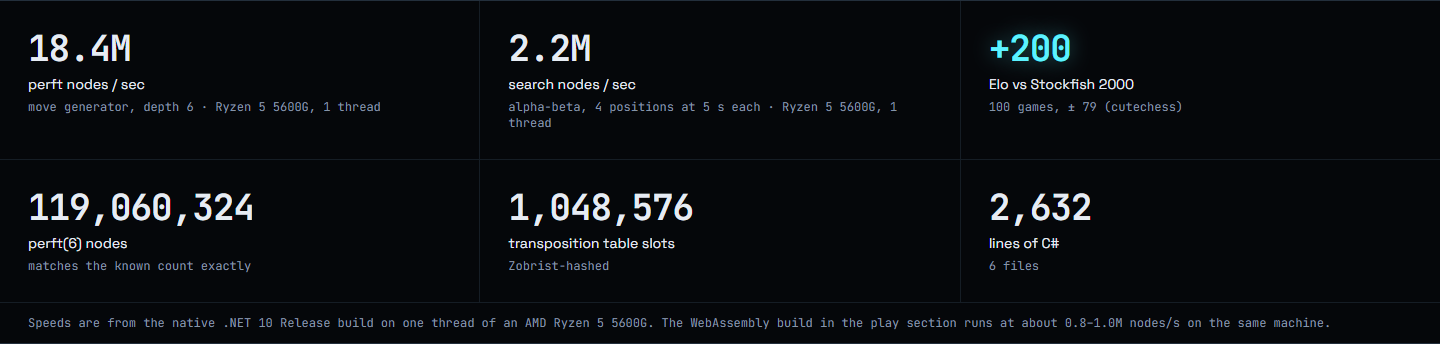
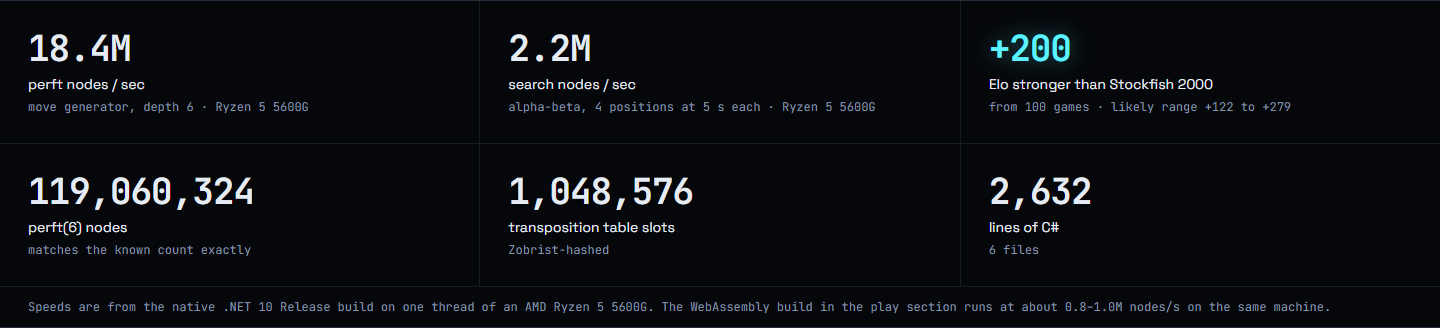
Queen bitboard demo with 64-bit readouts, fool's mate hero, clearer Elo stat
- Bitboard demo is now a queen on d4: rook and bishop magic lookups with the
  engine's own variable names, each value shown as 64 bits with flipped bits marked
- Hero board shows the fool's mate position; black pieces are lighter so they stand out
- Elo stat explains itself (about 200 above Stockfish 2000, range +122 to +279)
- Speed stats name the CPU without "1 thread" (the note below still says it)

diff --git a/site/src/viz.ts b/site/src/viz.ts
@@ -144,26 +144,32 @@ export function setupAlphaBeta(host: HTMLElement, caption: HTMLElement) {
 
 // ---------------------------------------------------------------- magic bitboards
 
+// A queen on d4 is a rook lookup plus a bishop lookup, the same as Chess.queenMoves in the engine.
 const M64 = (1n << 64n) - 1n;
-const ROOK_SQ = 27; // d4
-const ROOK_MAGIC = 0x20c100180080280n; // Board.rookMagics[27] in the engine
+const SQ = 27; // d4
+const ROOK_MAGIC = 0x20c100180080280n; // Board.rookMagics[27]
 const ROOK_BITS = 10; // Board.rookBlockerBitCounts[27]
-const DIRS = [[1, 0], [-1, 0], [0, 1], [0, -1]];
+const BISHOP_MAGIC = 0x808008020002n; // Board.bishopMagics[27]
+const BISHOP_BITS = 9; // Board.bishopBlockerBitCounts[27]
+const ROOK_DIRS = [[1, 0], [-1, 0], [0, 1], [0, -1]];
+const BISHOP_DIRS = [[1, 1], [1, -1], [-1, 1], [-1, -1]];
 
-function rookMask(sq: number): bigint {
+// Squares a slider could be blocked on, leaving out the board edge.
+function blockerMask(sq: number, dirs: number[][]): bigint {
   let m = 0n;
   const f0 = sq % 8, r0 = Math.floor(sq / 8);
-  for (const [df, dr] of DIRS) {
+  for (const [df, dr] of dirs) {
     let f = f0 + df, r = r0 + dr;
     while (f + df >= 0 && f + df <= 7 && r + dr >= 0 && r + dr <= 7) { m |= 1n << BigInt(r * 8 + f); f += df; r += dr; }
   }
   return m;
 }
 
-function rookAttacks(sq: number, occ: bigint): bigint {
+// What the engine's precomputed table holds for this blocker set.
+function slide(sq: number, occ: bigint, dirs: number[][]): bigint {
   let a = 0n;
   const f0 = sq % 8, r0 = Math.floor(sq / 8);
-  for (const [df, dr] of DIRS) {
+  for (const [df, dr] of dirs) {
     let f = f0 + df, r = r0 + dr;
     while (f >= 0 && f <= 7 && r >= 0 && r <= 7) {
       const b = 1n << BigInt(r * 8 + f);
@@ -175,11 +181,24 @@ function rookAttacks(sq: number, occ: bigint): bigint {
   return a;
 }
 
-const hex = (b: bigint) => '0x' + b.toString(16).toUpperCase().padStart(16, '0');
+// 64 bits, bit 63 (h8) first, split into ranks. Bits that changed on the last click are marked.
+function bits(v: bigint, prev: bigint | undefined): string {
+  let s = '';
+  for (let i = 63; i >= 0; i--) {
+    const on = (v >> BigInt(i)) & 1n;
+    const flipped = prev !== undefined && ((prev >> BigInt(i)) & 1n) !== on;
+    s += `<i class="${on ? 'b1' : 'b0'}${flipped ? ' flip' : ''}">${on}</i>`;
+    if (i % 8 === 0 && i > 0) s += ' ';
+  }
+  return s;
+}
 
 export function setupBitboard(host: HTMLElement, out: HTMLElement) {
-  const mask = rookMask(ROOK_SQ);
-  let occ = (1n << 51n) | (1n << 25n) | (1n << 13n) | (1n << 30n); // d7, b4, f2, g4
+  const rookMask = blockerMask(SQ, ROOK_DIRS);
+  const bishopMask = blockerMask(SQ, BISHOP_DIRS);
+  // d7, b4, g4, f2, f6, b2
+  let allPieces = (1n << 51n) | (1n << 25n) | (1n << 30n) | (1n << 13n) | (1n << 45n) | (1n << 9n);
+  let prev: Record<string, bigint> = {};
   const grid = document.createElement('div');
   grid.className = 'bb-grid';
   const cells: HTMLButtonElement[] = [];
@@ -190,8 +209,8 @@ export function setupBitboard(host: HTMLElement, out: HTMLElement) {
     b.dataset.idx = String(idx);
     b.setAttribute('aria-label', 'abcdefgh'[idx % 8] + (Math.floor(idx / 8) + 1));
     b.onclick = () => {
-      if (idx === ROOK_SQ) return;
-      occ ^= 1n << BigInt(idx);
+      if (idx === SQ) return;
+      allPieces ^= 1n << BigInt(idx);
       draw();
     };
     cells.push(b);
@@ -200,24 +219,41 @@ export function setupBitboard(host: HTMLElement, out: HTMLElement) {
   host.append(grid);
 
   function draw() {
-    const attacks = rookAttacks(ROOK_SQ, occ);
-    const relevant = occ & mask;
-    const index = Number((((relevant * ROOK_MAGIC) & M64) >> BigInt(64 - ROOK_BITS)));
+    const rBlockers = allPieces & rookMask;
+    const rMagicIndex = Number(((rBlockers * ROOK_MAGIC) & M64) >> BigInt(64 - ROOK_BITS));
+    const rookAttacks = slide(SQ, allPieces, ROOK_DIRS);
+    const bBlockers = allPieces & bishopMask;
+    const bMagicIndex = Number(((bBlockers * BISHOP_MAGIC) & M64) >> BigInt(64 - BISHOP_BITS));
+    const bishopAttacks = slide(SQ, allPieces, BISHOP_DIRS);
+    const attacks = rookAttacks | bishopAttacks;
+
     for (const b of cells) {
       const idx = Number(b.dataset.idx);
       const bit = 1n << BigInt(idx);
       b.className = 'bb-cell';
-      if (idx === ROOK_SQ) { b.classList.add('bb-rook'); b.textContent = 'R'; continue; }
-      b.textContent = occ & bit ? '●' : attacks & bit ? '1' : '0';
+      if (idx === SQ) { b.classList.add('bb-rook'); b.textContent = 'Q'; continue; }
+      b.textContent = allPieces & bit ? '●' : attacks & bit ? '1' : '0';
       if (attacks & bit) b.classList.add('bb-att');
-      if (occ & bit) b.classList.add('bb-occ');
-      if (mask & bit) b.classList.add('bb-mask');
+      if (allPieces & bit) b.classList.add('bb-occ');
+      if ((rookMask | bishopMask) & bit) b.classList.add('bb-mask');
     }
+
+    const now: Record<string, bigint> = { allPieces, rBlockers, rookAttacks, bBlockers, bishopAttacks, attacks };
+    const row = (name: string, expr: string, cls = '') =>
+      `<div class="bb-row ${cls}"><span><b>${name}</b> ${expr}</span><code>${bits(now[name], prev[name])}</code></div>`;
+    const num = (name: string, expr: string, v: number) =>
+      `<div class="bb-row"><span><b>${name}</b> ${expr}</span><code class="bb-num">${v}</code></div>`;
     out.innerHTML =
-      `<div><span>blockers &amp; mask</span><code>${hex(relevant)}</code></div>` +
-      `<div><span>× magic</span><code>${hex(ROOK_MAGIC)}</code></div>` +
-      `<div><span>&gt;&gt; ${64 - ROOK_BITS} → table index</span><code>${index}</code></div>` +
-      `<div class="bb-res"><span>attacks (one lookup)</span><code>${hex(attacks)}</code></div>`;
+      `<p class="bb-legend">bit 63 (h8) on the left, bit 0 (a1) on the right, one group per rank. Bits that changed on your last click are highlighted.</p>` +
+      row('allPieces', '= every occupied square') +
+      row('rBlockers', '= allPieces &amp; rookBlockersMasks[d4]') +
+      num('rMagicIndex', `= (rBlockers × rookMagics[d4]) &gt;&gt; ${64 - ROOK_BITS}`, rMagicIndex) +
+      row('rookAttacks', '= rookAttackTable[d4][rMagicIndex]') +
+      row('bBlockers', '= allPieces &amp; bishopBlockersMasks[d4]') +
+      num('bMagicIndex', `= (bBlockers × bishopMagics[d4]) &gt;&gt; ${64 - BISHOP_BITS}`, bMagicIndex) +
+      row('bishopAttacks', '= bishopAttackTable[d4][bMagicIndex]') +
+      row('attacks', '= rookAttacks | bishopAttacks', 'bb-res');
+    prev = now;
   }
   draw();
 }

diff --git a/site/index.html b/site/index.html
@@ -38,9 +38,9 @@
     </section>
 
     <section class="stats" aria-label="Engine numbers">
-      <div class="stat reveal"><b data-count="18.4" data-decimals="1" data-suffix="M">0</b><span>perft nodes / sec</span><small>move generator, depth 6 · Ryzen 5 5600G, 1 thread</small></div>
-      <div class="stat reveal"><b data-count="2.2" data-decimals="1" data-suffix="M">0</b><span>search nodes / sec</span><small>alpha-beta, 4 positions at 5 s each · Ryzen 5 5600G, 1 thread</small></div>
-      <div class="stat stat-live reveal"><b data-count="200" data-prefix="+">0</b><span>Elo vs Stockfish 2000</span><small>100 games, ± 79 (cutechess)</small></div>
+      <div class="stat reveal"><b data-count="18.4" data-decimals="1" data-suffix="M">0</b><span>perft nodes / sec</span><small>move generator, depth 6 · Ryzen 5 5600G</small></div>
+      <div class="stat reveal"><b data-count="2.2" data-decimals="1" data-suffix="M">0</b><span>search nodes / sec</span><small>alpha-beta, 4 positions at 5 s each · Ryzen 5 5600G</small></div>
+      <div class="stat stat-live reveal"><b data-count="200" data-prefix="+">0</b><span>Elo stronger than Stockfish 2000</span><small>from 100 games · likely range +122 to +279</small></div>
       <div class="stat reveal"><b data-count="119060324">0</b><span>perft(6) nodes</span><small>matches the known count exactly</small></div>
       <div class="stat reveal"><b data-count="1048576">0</b><span>transposition table slots</span><small>Zobrist-hashed</small></div>
       <div class="stat reveal"><b data-count="2632">0</b><span>lines of C#</span><small>6 files</small></div>
@@ -110,8 +110,8 @@
       <div class="feature feature-flip reveal">
         <div class="feature-text">
           <h3>Magic bitboards</h3>
-          <p>The board is stored as 64-bit integers, one bit per square. For a rook, the pieces in its way are masked, multiplied by a precomputed "magic" number and shifted. The result indexes a table that already holds every square the rook can reach.</p>
-          <p class="hint">Click squares to add or remove blockers. The magic number and shift are the engine's own values for a rook on d4.</p>
+          <p>The board is stored as 64-bit integers, one bit per square. To find where a queen can go, the engine does two lookups, one for its rook moves and one for its bishop moves. Each time, the pieces in the way are masked, multiplied by a precomputed "magic" number and shifted. The result indexes a table that already holds every square the piece can reach.</p>
+          <p class="hint">Click squares to add or remove blockers. The magic numbers, shifts and variable names are the engine's own, for a queen on d4.</p>
           <div id="bb-out" class="bb-out mono"></div>
         </div>
         <div id="bb-host" class="feature-visual"></div>
@@ -151,7 +151,7 @@
       <div class="section-head reveal">
         <p class="eyebrow">Testing</p>
         <h2 id="m-headline">Against Stockfish</h2>
-        <p>The latest run was <b id="m-games"></b> games against <span id="m-opponent"></span>, with <span id="m-tc"></span>, played with cutechess-cli, 4 games at a time and no opening book. Stockfish's Elo limit is calibrated at that time control. cutechess-cli puts the Elo difference at +200 ± 79.</p>
+        <p>The latest run was <b id="m-games"></b> games against <span id="m-opponent"></span>, with <span id="m-tc"></span>, played with cutechess-cli, 4 games at a time and no opening book. Stockfish's Elo limit is calibrated at that time control. From that score, cutechess-cli estimates StrangeChess at about 200 Elo above this Stockfish, so roughly 2200, with a likely range of +122 to +279.</p>
       </div>
       <div class="results reveal">
         <div class="score">

diff --git a/site/src/hero.ts b/site/src/hero.ts
@@ -25,10 +25,27 @@ const PROFILES: Record<string, [number, number][]> = {
   k: [[0, 0], [0.4, 0], [0.4, 0.1], [0.28, 0.16], [0.17, 0.62], [0.27, 0.68], [0.17, 0.74], [0.26, 1.06], [0.12, 1.12], [0, 1.12]],
 };
 
-// A middlegame-looking setup: [type, file, rank, white?]
+// Knight: a turned base with a blocky head and muzzle on top.
+function knight(material: THREE.Material) {
+  const g = new THREE.Group();
+  g.add(lathe([[0, 0], [0.36, 0], [0.36, 0.08], [0.26, 0.14], [0.2, 0.36], [0, 0.36]], material));
+  const neck = new THREE.Mesh(new THREE.BoxGeometry(0.26, 0.5, 0.3), material);
+  neck.position.set(0, 0.58, 0.02); neck.rotation.x = -0.25;
+  const muzzle = new THREE.Mesh(new THREE.BoxGeometry(0.22, 0.2, 0.42), material);
+  muzzle.position.set(0, 0.76, 0.16); muzzle.rotation.x = 0.35;
+  for (const m of [neck, muzzle]) { m.castShadow = true; g.add(m); }
+  return g;
+}
+
+// Fool's mate, the shortest checkmate: 1. f3 e5 2. g4 Qh4#. [type, file, rank, white?]
+const BACK = ['r', 'n', 'b', 'q', 'k', 'b', 'n', 'r'];
 const SETUP: [string, number, number, boolean][] = [
-  ['k', 6, 0, true], ['r', 5, 0, true], ['q', 3, 2, true], ['b', 2, 3, true], ['p', 4, 3, true], ['p', 3, 1, true], ['p', 5, 1, true], ['p', 6, 1, true], ['p', 7, 2, true],
-  ['k', 6, 7, false], ['r', 3, 7, false], ['q', 1, 5, false], ['b', 4, 6, false], ['p', 4, 4, false], ['p', 5, 6, false], ['p', 6, 6, false], ['p', 7, 5, false], ['p', 0, 5, false],
+  ...BACK.map((t, f) => [t, f, 0, true] as [string, number, number, boolean]),
+  ...[0, 1, 2, 3, 4, 7].map((f) => ['p', f, 1, true] as [string, number, number, boolean]),
+  ['p', 5, 2, true], ['p', 6, 3, true],
+  ...BACK.map((t, f) => (t === 'q' ? ['q', 7, 3, false] : [t, f, 7, false]) as [string, number, number, boolean]),
+  ...[0, 1, 2, 3, 5, 6, 7].map((f) => ['p', f, 6, false] as [string, number, number, boolean]),
+  ['p', 4, 4, false],
 ];
 
 type Tree = { lines: THREE.LineSegments; nodes: THREE.Points; total: number; born: number };
@@ -87,10 +104,12 @@ export function setupHero(canvas: HTMLCanvasElement) {
 
   // Pieces
   const whiteMat = new THREE.MeshStandardMaterial({ color: '#e9eef6', metalness: 0.25, roughness: 0.25 });
-  const blackMat = new THREE.MeshStandardMaterial({ color: '#121722', metalness: 0.8, roughness: 0.22, emissive: '#0b2c33', emissiveIntensity: 0.4 });
+  const blackMat = new THREE.MeshStandardMaterial({ color: '#3a4a5e', metalness: 0.55, roughness: 0.3, emissive: '#11707f', emissiveIntensity: 0.55 });
   const squares: THREE.Vector3[] = [];
   for (const [type, f, r, white] of SETUP) {
-    const m = lathe(PROFILES[type], white ? whiteMat : blackMat);
+    const mat = white ? whiteMat : blackMat;
+    const m = type === 'n' ? knight(mat) : lathe(PROFILES[type], mat);
+    if (type === 'n') m.rotation.y = white ? Math.PI : 0; // knights face the opponent
     m.position.set(f - 3.5, 0, 3.5 - r);
     world.add(m);
     squares.push(m.position.clone());

diff --git a/site/src/styles.css b/site/src/styles.css
@@ -269,3 +269,16 @@ select { background: #0d131c; color: var(--text); border: 1px solid var(--line-2
   .reveal { opacity: 1; transform: none; transition: none; }
   * { transition: none !important; }
 }
+
+/* bitboard readout: 64-bit rows */
+.bb-out .bb-legend { margin: 0 0 4px; font-size: 11.5px; color: var(--muted); line-height: 1.5; }
+.bb-out .bb-row { display: block; }
+.bb-out .bb-row span { display: block; margin-bottom: 3px; font-size: 11.5px; }
+.bb-out .bb-row span b { color: var(--text); font-weight: 600; }
+.bb-out .bb-row code { display: block; font-size: 11px; letter-spacing: 0.02em; white-space: normal; overflow-wrap: anywhere; }
+.bb-out .bb-row code i { font-style: normal; }
+.bb-out .bb-row code i.b0 { color: #3a4658; }
+.bb-out .bb-row code i.b1 { color: var(--text); }
+.bb-out .bb-res code i.b1 { color: var(--accent); }
+.bb-out .bb-row code i.flip { background: rgba(255, 92, 122, 0.35); color: #fff; border-radius: 2px; }
+.bb-out .bb-num { color: var(--text); }

diff --git a/README.md b/README.md
@@ -14,10 +14,10 @@ About 90% of the engine is my own code and 10% came from AI. The website and dep
 
 | Section | What it shows |
 | --- | --- |
-| Hero | A three.js board where search trees grow out of the pieces: bright branches are kept, dim ones pruned |
+| Hero | A three.js board set up in the fool's mate position (1. f3 e5 2. g4 Qh4#), where search trees grow out of the pieces: bright branches are kept, dim ones pruned |
 | Numbers | Perft and search speed (native, Ryzen 5 5600G, one thread), Elo difference against Stockfish 2000, perft(6) node count, transposition table size, lines of C# |
 | Play | A board backed by the WebAssembly engine, with a live console of the search (depth, score, nodes, nodes/sec), an eval bar, think time, undo and play as black |
-| Inside the engine | An animated alpha-beta pruning tree, an interactive magic-bitboard lookup using the engine's real rook magic for d4, and cards for each search and evaluation technique |
+| Inside the engine | An animated alpha-beta pruning tree, an interactive magic-bitboard lookup for a queen on d4 (the engine's real rook and bishop magics), with every 64-bit value shown bit by bit, and cards for each search and evaluation technique |
 | Build pipeline | How the C# source becomes WebAssembly in the browser |
 | Results | The latest logged match against Stockfish 18 limited to 2000 Elo (100 games: 73 wins, 6 draws, 21 losses), with a replay of a win |
 
